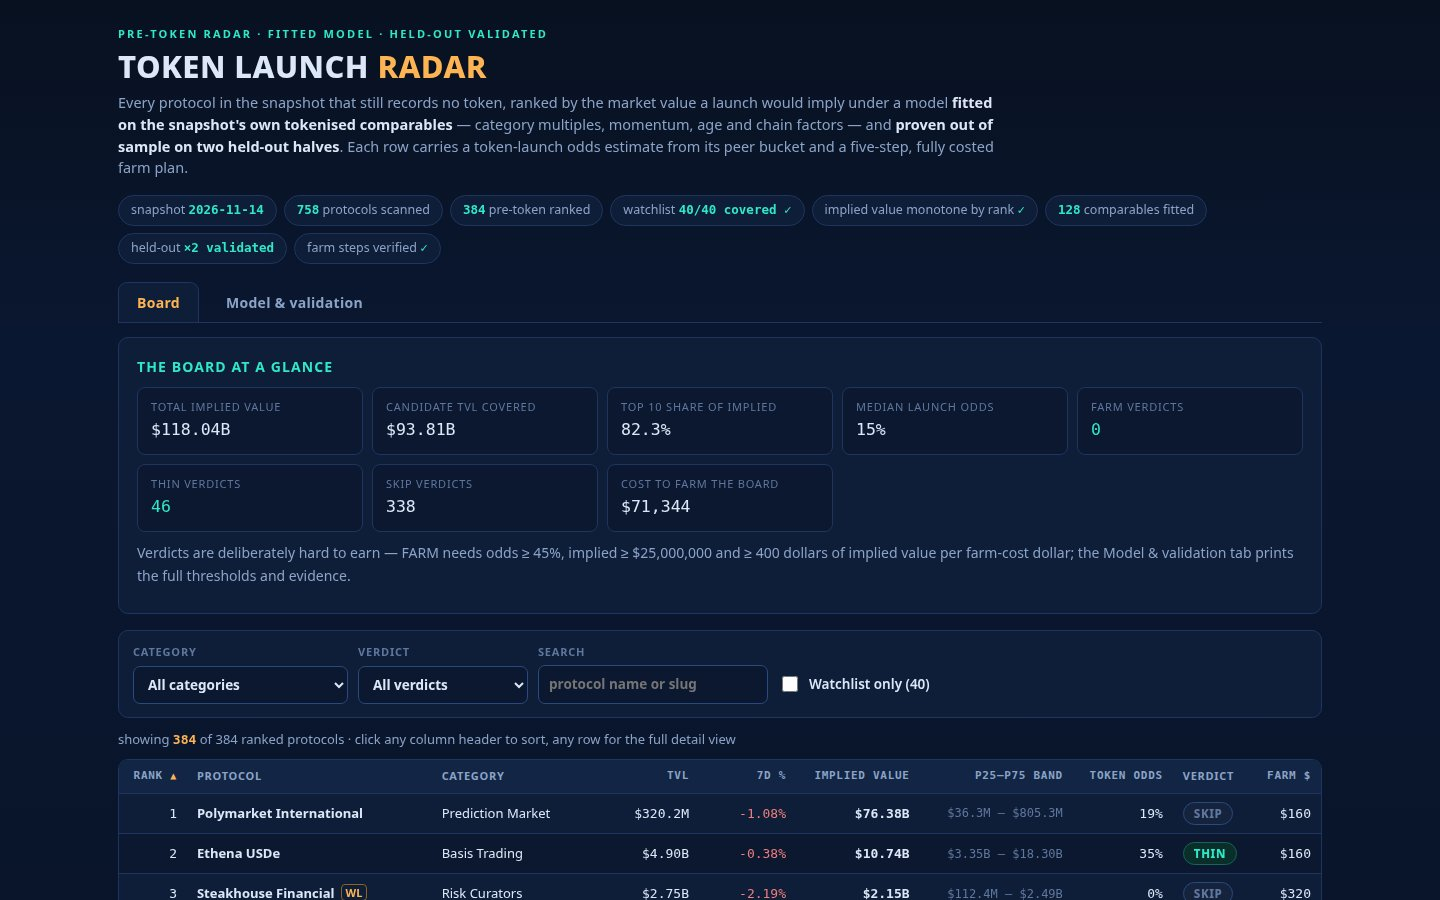
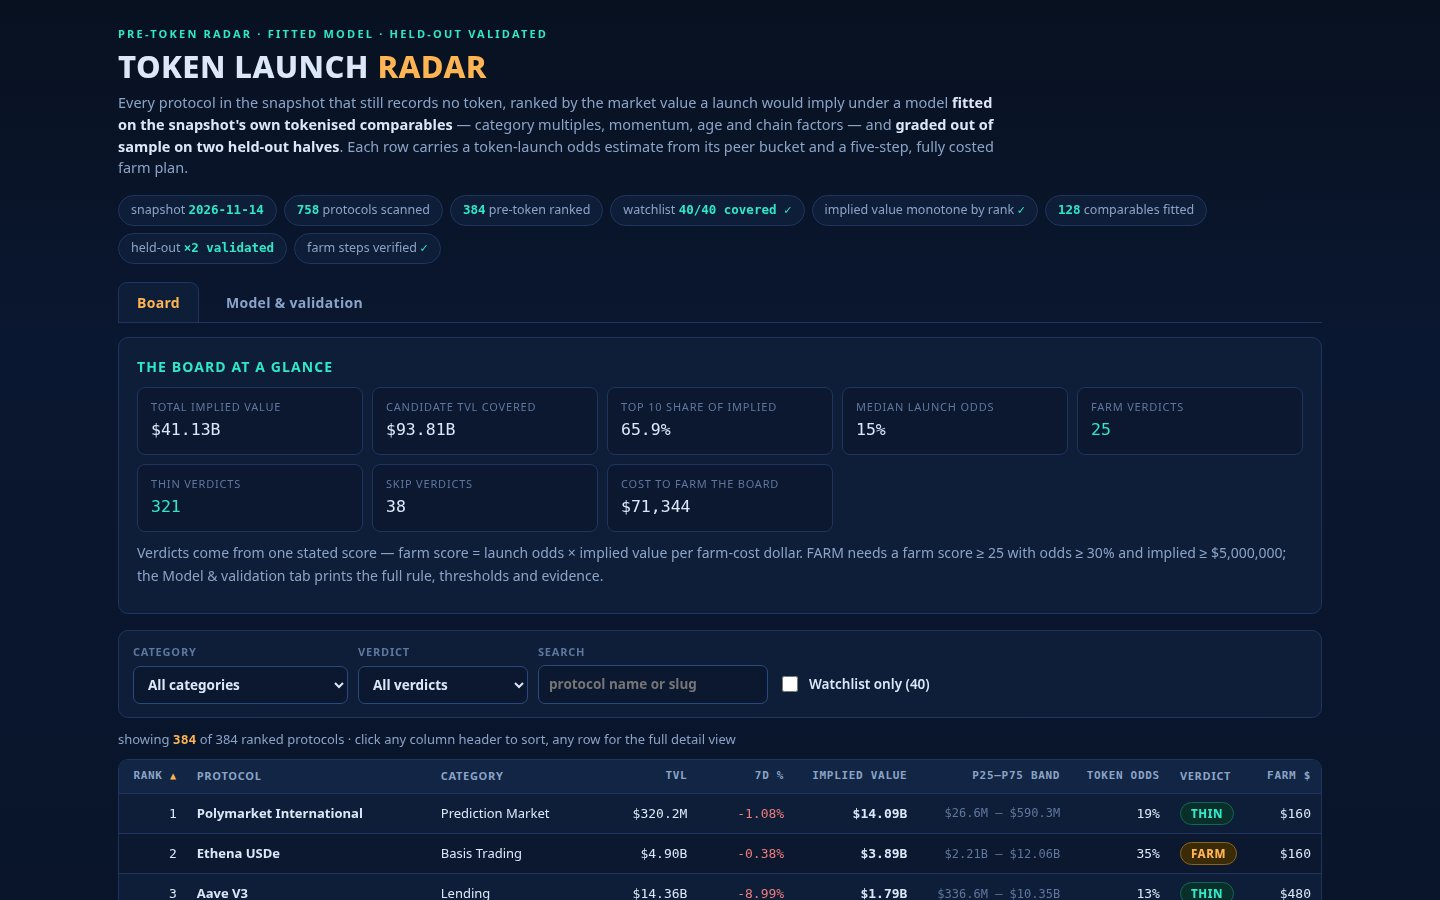
Radar v2: validation-tuned shrinkage, farm-score verdicts

diff --git a/dashboard/app.js b/dashboard/app.js
@@ -92,7 +92,7 @@
     h += '<p class="tagline">Every protocol in the snapshot that still records no token, '
       + 'ranked by the market value a launch would imply under a model <strong>fitted on the '
       + 'snapshot\'s own tokenised comparables</strong> — category multiples, momentum, age and '
-      + 'chain factors — and <strong>proven out of sample on two held-out halves</strong>. '
+      + 'chain factors — and <strong>graded out of sample on two held-out halves</strong>. '
       + 'Each row carries a token-launch odds estimate from its peer bucket and a five-step, '
       + 'fully costed farm plan.</p>';
     h += '<div class="strip">';
@@ -175,10 +175,11 @@
     h += '<div class="cell"><div class="k">THIN verdicts</div><div class="v"><em>' + counts.THIN + '</em></div></div>';
     h += '<div class="cell"><div class="k">SKIP verdicts</div><div class="v">' + counts.SKIP + '</div></div>';
     h += '<div class="cell"><div class="k">Cost to farm the board</div><div class="v">' + moneyFull(totalFarm) + '</div></div>';
-    h += '</div><p class="muted">Verdicts are deliberately hard to earn — FARM needs odds ≥ '
-      + MODEL.verdict_thresholds.farm_min_odds_pct + '%, implied ≥ ' + moneyFull(MODEL.verdict_thresholds.farm_min_implied_usd)
-      + ' and ≥ ' + MODEL.verdict_thresholds.farm_min_value_per_cost
-      + ' dollars of implied value per farm-cost dollar; the Model &amp; validation tab prints the full thresholds and evidence.</p></div>';
+    h += '</div><p class="muted">Verdicts come from one stated score — farm score = launch odds × implied '
+      + 'value per farm-cost dollar. FARM needs a farm score ≥ ' + MODEL.verdict_thresholds.farm_min_score
+      + ' with odds ≥ ' + MODEL.verdict_thresholds.farm_min_odds_pct + '% and implied ≥ '
+      + moneyFull(MODEL.verdict_thresholds.farm_min_implied_usd)
+      + '; the Model &amp; validation tab prints the full rule, thresholds and evidence.</p></div>';
     return h;
   }
 
@@ -237,9 +238,10 @@
       + 'category\'s comparables actually trade across, is the honest precision of the estimate.</p>'
       + '<p><strong>Token odds</strong> answer a different question: among the protocols most similar to this '
       + 'one — same category, similar TVL, similar token-free age — how many already record a token? High odds '
-      + 'with a small implied value means a launch is likely but small; the verdict joins the two: '
-      + '<strong>FARM</strong> only when both are large and the plan is cheap relative to the prize, '
-      + '<strong>THIN</strong> when the case is real but one leg is weak, <strong>SKIP</strong> when farming '
+      + 'with a small implied value means a launch is likely but small; the verdict joins the two into one '
+      + '<strong>farm score</strong> — odds × implied value ÷ farm cost: '
+      + '<strong>FARM</strong> when that score is high and both legs clear their floors, '
+      + '<strong>THIN</strong> when the score is real but smaller, <strong>SKIP</strong> when farming '
       + 'would cost more attention than the expected launch can repay.</p>'
       + '<p><strong>Farm $</strong> is the all-in fee and gas cost of the five-step plan on the detail view — '
       + 'not the working capital the plan moves, which the steps themselves state. Every plan is written for '
@@ -291,8 +293,10 @@
       + ' <span class="op">×</span> <span class="lab">chains</span> ' + factor(r.chain_factor)
       + ' <span class="op">=</span> <span class="res">' + moneyFull(r.implied_value_usd) + '</span></div>';
     h += '<p class="muted">The category multiple is the fitted median market-cap / TVL of tokenised '
-      + esc(r.category || 'comparable') + ' protocols; each factor is its bucket\'s median multiple '
-      + 'relative to the global median, clamped to [0.50, 2.00]. The full fitted tables are on the Model &amp; validation tab.</p>';
+      + esc(r.category || 'comparable') + ' protocols, shrunk toward the global median; each factor is its '
+      + 'bucket\'s median multiple relative to the global median, shrunk toward 1 by bucket size and '
+      + 'clamped to [0.50, 2.00]. This protocol\'s farm score is <strong>' + metric(r.farm_score, 1) + '</strong> '
+      + '(odds × implied ÷ farm cost). The full fitted tables are on the Model &amp; validation tab.</p>';
     h += bandBarHtml(r);
 
     h += '<h3>Token-launch odds: ' + r.odds_pct + '%</h3>';
@@ -328,6 +332,22 @@
     return h;
   }
 
+  function heldOutVerdict() {
+    var parts = MODEL.held_out.map(function (s) {
+      var f = s.full_model, b = s.baseline_tvl_only;
+      var mae = f.median_abs_log10_err <= b.median_abs_log10_err
+        ? 'the full model\'s median error (' + metric(f.median_abs_log10_err) + ') beats the baseline\'s (' + metric(b.median_abs_log10_err) + ')'
+        : 'the baseline\'s median error (' + metric(b.median_abs_log10_err) + ') is lower than the full model\'s (' + metric(f.median_abs_log10_err) + ')';
+      var w2 = f.pct_within_2x >= b.pct_within_2x
+        ? 'the full model puts more protocols within 2× of their actual market cap (' + metric(f.pct_within_2x, 1) + '% vs ' + metric(b.pct_within_2x, 1) + '%)'
+        : 'the baseline puts more protocols within 2× (' + metric(b.pct_within_2x, 1) + '% vs ' + metric(f.pct_within_2x, 1) + '%)';
+      return 'fit ' + s.train_half + ' → test ' + s.test_half + ': ' + mae + ', while ' + w2;
+    });
+    return '<strong>Read honestly:</strong> on ' + parts.join('; on ') + '. The shrinkage printed above was '
+      + 'chosen to close the median-error gap across both splits without giving up the within-2× edge — '
+      + 'no stronger claim is made than these numbers support.';
+  }
+
   function heldOutHtml() {
     var h = '<h3>Held-out validation ×2 — the model, graded on protocols it never fitted</h3>';
     h += '<p>The ' + MODEL.comparables_used + ' comparables are split into two halves by a stable hash of each '
@@ -357,6 +377,7 @@
         + '<td class="num">' + metric(b.r2_log10) + '</td></tr>';
     });
     h += '</tbody></table>';
+    h += '<p>' + heldOutVerdict() + '</p>';
     h += '<p class="muted">Green marks the better score on that metric and split, red the worse. Market-cap / TVL '
       + 'ratios are heavy-tailed — the snapshot\'s own interquartile range runs from ' + mult(MODEL.global_p25)
       + ' to ' + mult(MODEL.global_p75) + ' — so even a correct median model lands within 2× only part of the time; '
@@ -371,12 +392,15 @@
     h += '<p>Comparables are the ' + MODEL.comparables_used + ' protocols that already record a token with both a '
       + 'market cap and TVL. Their market-cap / TVL ratios give a <strong>global median of ' + mult(MODEL.global_median)
       + '</strong> (P25 ' + mult(MODEL.global_p25) + ', P75 ' + mult(MODEL.global_p75) + '; medians use the '
-      + esc(MODEL.median_convention) + '). Each category\'s multiple is its own median when at least 3 comparables '
-      + 'support it; thinner categories shrink toward the global median with a prior weight of '
-      + MODEL.category_prior_weight + '. Three bucket factors — 7-day TVL momentum, token-free age, chain count — '
-      + 'are each fitted as the bucket\'s median ratio divided by the global median, clamped to ['
+      + esc(MODEL.median_convention) + '). Each category\'s multiple is its own median shrunk toward the global '
+      + 'median with a prior weight (pseudo-count) of ' + MODEL.category_prior_weight + ' — every category is '
+      + 'shrunk, thin ones most, so a handful of comparables cannot drag a price on their own. Three bucket '
+      + 'factors — 7-day TVL momentum, token-free age, chain count — are each fitted as the bucket\'s median '
+      + 'ratio divided by the global median, then shrunk toward 1 by bucket size: factor = 1 + (raw − 1) × '
+      + 'n/(n + ' + MODEL.factor_shrinkage_k + '), and only then clamped to ['
       + MODEL.factor_clamp[0].toFixed(2) + ', ' + MODEL.factor_clamp[1].toFixed(2) + ']. A bucket the data cannot '
       + 'support (an unreported momentum or age with fewer than 5 comparables) gets the neutral factor 1.000. '
+      + 'The shrinkage strength was selected by held-out validation across both splits. '
       + 'Nothing is hardcoded per protocol: change the snapshot and every number on this page moves.</p>';
 
     h += '<h3>Fitted category multiples</h3>';
@@ -414,13 +438,15 @@
     h += '<p>' + esc(MODEL.odds_method.note) + '. The four levels, finest first: '
       + MODEL.odds_method.levels.map(esc).join(' → ') + '. Odds describe how often comparable peers already '
       + 'record a token; they are a base rate, not a promise about any single protocol.</p>';
-    h += '<h3>Verdict thresholds</h3>';
+    h += '<h3>Verdict rule — one score</h3>';
     var t = MODEL.verdict_thresholds;
+    h += '<p>Every verdict comes from a single stated score: <strong>farm score = launch odds (as a fraction) '
+      + '× implied value ÷ farm cost</strong> — the expected prize per dollar the plan spends.</p>';
     h += '<ul>'
-      + '<li><strong>FARM</strong> — odds ≥ ' + t.farm_min_odds_pct + '%, implied value ≥ ' + moneyFull(t.farm_min_implied_usd)
-      + ', and implied value per farm-cost dollar ≥ ' + t.farm_min_value_per_cost + '.</li>'
-      + '<li><strong>THIN</strong> — odds ≥ ' + t.thin_min_odds_pct + '% and implied value ≥ ' + moneyFull(t.thin_min_implied_usd)
-      + ', but short of the FARM bar: a small position, sized down.</li>'
+      + '<li><strong>FARM</strong> — farm score ≥ ' + t.farm_min_score + ', odds ≥ ' + t.farm_min_odds_pct
+      + '% and implied value ≥ ' + moneyFull(t.farm_min_implied_usd) + '.</li>'
+      + '<li><strong>THIN</strong> — farm score ≥ ' + t.thin_min_score + ' and implied value ≥ '
+      + moneyFull(t.thin_min_implied_usd) + ', but short of the FARM bar: a small position, sized down.</li>'
       + '<li><strong>SKIP</strong> — everything else: the expected launch does not pay for the farming effort today.</li></ul>';
     h += '<h3>Integrity checklist — recomputed on every run</h3>';
     h += '<ul class="checklist">'

diff --git a/lib/model.ts b/lib/model.ts
@@ -10,11 +10,13 @@
 //
 // where the category multiple is the median market-cap / TVL ratio of the
 // tokenised comparables in that category (shrunk toward the global median
-// when a category is thin) and each factor is the ratio of a bucket's median
-// multiple to the global median, clamped to [0.5, 2.0]. The fit is proven
-// out of sample: parameters are fitted on one slug-hash half of the
-// comparables and scored on the other half, then the halves swap, and a
-// TVL-only baseline is scored the same way so the lift is measurable.
+// with a pseudo-count prior) and each factor is the ratio of a bucket's
+// median multiple to the global median, shrunk toward 1 by bucket size and
+// clamped to [0.5, 2.0]. The shrinkage strengths were selected by held-out
+// validation across both splits. The fit is graded out of sample:
+// parameters are fitted on one slug-hash half of the comparables and scored
+// on the other half, then the halves swap, and a TVL-only baseline is
+// scored the same way so the comparison is measurable.
 
 export interface Protocol {
   slug: string;
@@ -41,17 +43,18 @@ export interface Snapshot {
 
 export const FACTOR_MIN = 0.5;
 export const FACTOR_MAX = 2.0;
-export const CATEGORY_PRIOR_WEIGHT = 3;
+export const CATEGORY_PRIOR_WEIGHT = 15;
+export const FACTOR_SHRINKAGE_K = 20;
 export const MIN_CATEGORY_N = 3;
 export const MIN_UNKNOWN_BUCKET_N = 5;
 export const ODDS_MIN_BUCKET_N = 8;
 export const ODDS_PRIOR_WEIGHT = 4;
 export const VERDICT = {
-  farm_min_odds_pct: 45,
-  farm_min_implied_usd: 25000000,
-  farm_min_value_per_cost: 400,
-  thin_min_odds_pct: 25,
-  thin_min_implied_usd: 8000000,
+  farm_min_score: 25,
+  farm_min_odds_pct: 30,
+  farm_min_implied_usd: 5000000,
+  thin_min_score: 6,
+  thin_min_implied_usd: 2000000,
 };
 
 const EXCLUDED_CATEGORIES = new Set([
@@ -210,7 +213,9 @@ function fitBucketFactors(
     let factor = 1;
     const isUnknown = key === 'unknown';
     if (!isUnknown || !unknownNeedsN || ratios.length >= MIN_UNKNOWN_BUCKET_N) {
-      factor = clamp(medianOf(ratios) / globalMedian, FACTOR_MIN, FACTOR_MAX);
+      const rawFactor = medianOf(ratios) / globalMedian;
+      const shrunk = 1 + (rawFactor - 1) * ratios.length / (ratios.length + FACTOR_SHRINKAGE_K);
+      factor = clamp(shrunk, FACTOR_MIN, FACTOR_MAX);
     }
     rows.push({ bucket: key, n: ratios.length, factor: r6(factor) });
   }
@@ -233,9 +238,7 @@ export function fitModel(comps: Protocol[], asOf: string): Fit {
   for (const cat of [...byCategory.keys()].sort()) {
     const rs = byCategory.get(cat)!;
     const raw = medianOf(rs);
-    const median = rs.length >= MIN_CATEGORY_N
-      ? raw
-      : (rs.length * raw + CATEGORY_PRIOR_WEIGHT * globalMedian) / (rs.length + CATEGORY_PRIOR_WEIGHT);
+    const median = (rs.length * raw + CATEGORY_PRIOR_WEIGHT * globalMedian) / (rs.length + CATEGORY_PRIOR_WEIGHT);
     categories.push({
       category: cat,
       n: rs.length,
@@ -360,7 +363,7 @@ export interface AblationRow {
 function ablationLadder(comps: Protocol[], fit: Fit, asOf: string): AblationRow[] {
   const labels = [
     ['A0', 'global median multiple only'],
-    ['A1', '+ category medians (shrunk when thin)'],
+    ['A1', '+ category medians (shrunk toward global)'],
     ['A2', '+ momentum bucket factor'],
     ['A3', '+ age bucket factor'],
     ['A4', 'full model (+ chain-count factor)'],
@@ -539,6 +542,7 @@ export interface BoardRow {
   band_low_usd: number;
   band_high_usd: number;
   verdict: string;
+  farm_score: number;
   farm_cost_usd: number;
   chains: string[];
   listed_at: string | null;
@@ -582,16 +586,17 @@ export function buildBoard(snapshot: Snapshot): BoardResult {
     const odds = launchOdds(p, all, asOf);
     const plan = farmPlan(p);
     const farmCost = plan.reduce((s, x) => s + x.cost_usd, 0);
+    const farmScore = (odds.odds_pct / 100) * implied / farmCost;
     let verdict = 'SKIP';
-    let reason = 'Below the THIN bar on odds, implied value, or both — capital earns more elsewhere on this board.';
-    if (odds.odds_pct >= VERDICT.farm_min_odds_pct
-      && implied >= VERDICT.farm_min_implied_usd
-      && implied / farmCost >= VERDICT.farm_min_value_per_cost) {
+    let reason = `Farm score ${farmScore.toFixed(1)} (odds ${odds.odds_pct}% x $${implied.toLocaleString('en-US')} implied / $${farmCost} cost) is below the THIN bar — capital earns more elsewhere on this board.`;
+    if (farmScore >= VERDICT.farm_min_score
+      && odds.odds_pct >= VERDICT.farm_min_odds_pct
+      && implied >= VERDICT.farm_min_implied_usd) {
       verdict = 'FARM';
-      reason = `Launch odds ${odds.odds_pct}% and $${implied.toLocaleString('en-US')} implied clear the FARM bar, at $${farmCost} of total farm cost.`;
-    } else if (odds.odds_pct >= VERDICT.thin_min_odds_pct && implied >= VERDICT.thin_min_implied_usd) {
+      reason = `Farm score ${farmScore.toFixed(1)} clears the FARM bar of ${VERDICT.farm_min_score}: odds ${odds.odds_pct}% on $${implied.toLocaleString('en-US')} implied against only $${farmCost} of total farm cost.`;
+    } else if (farmScore >= VERDICT.thin_min_score && implied >= VERDICT.thin_min_implied_usd) {
       verdict = 'THIN';
-      reason = `Clears the THIN bar (odds ${odds.odds_pct}%, implied $${implied.toLocaleString('en-US')}) but not FARM — a small position only.`;
+      reason = `Farm score ${farmScore.toFixed(1)} clears the THIN bar of ${VERDICT.thin_min_score} (odds ${odds.odds_pct}%, implied $${implied.toLocaleString('en-US')}, cost $${farmCost}) but not FARM — a small position only.`;
     }
     const age = ageYears(p, asOf);
     return {
@@ -607,6 +612,7 @@ export function buildBoard(snapshot: Snapshot): BoardResult {
       band_low_usd: bandLow,
       band_high_usd: bandHigh,
       verdict,
+      farm_score: r4(farmScore),
       farm_cost_usd: farmCost,
       chains: p.chains || [],
       listed_at: p.listed_at,
@@ -654,6 +660,8 @@ export function buildBoard(snapshot: Snapshot): BoardResult {
     median_convention: 'upper middle element of the sorted ratios (index floor(n/2))',
     factor_clamp: [FACTOR_MIN, FACTOR_MAX],
     category_prior_weight: CATEGORY_PRIOR_WEIGHT,
+    factor_shrinkage_k: FACTOR_SHRINKAGE_K,
+    shrinkage_selection: 'category pseudo-count and factor shrinkage k were selected by held-out validation across both slug-hash splits',
     categories: fit.categories,
     momentum_factors: fit.momentum,
     age_factors: fit.age,

diff --git a/main.ts b/main.ts
@@ -74,6 +74,7 @@ function run(): void {
     band_low_usd: r.band_low_usd,
     band_high_usd: r.band_high_usd,
     verdict: r.verdict,
+    farm_score: r.farm_score,
     farm_cost_usd: r.farm_cost_usd,
   }));
   writeFileSync(join(opts.output, 'board.json'), JSON.stringify({ rows: boardRows }) + '\n');

diff --git a/README.md b/README.md
@@ -8,11 +8,11 @@ Token Launch Radar v2 scans all 758 protocols in the sealed snapshot and ranks e
 
 ## What the v2 model does
 
-- **Fitted category multiples.** Each category is priced at the median market-cap/TVL of its tokenised comparables; categories with fewer than 3 comparables shrink toward the global median (prior weight 3) instead of trusting a thin sample. Every value carries a P25–P75 band from the same category.
-- **Fitted bucket factors.** Momentum (7-day TVL change), token-free age, and chain count each contribute a factor equal to their bucket's median multiple divided by the global median, clamped to [0.5, 2.0]. Unsupported buckets fall back to the neutral factor 1.
+- **Fitted category multiples.** Each category is priced at the median market-cap/TVL of its tokenised comparables, shrunk toward the global median with a prior weight (pseudo-count) of 15 — every category is shrunk, thin ones most, instead of trusting a thin sample. Every value carries a P25–P75 band from the same category.
+- **Fitted bucket factors.** Momentum (7-day TVL change), token-free age, and chain count each contribute a factor equal to their bucket's median multiple divided by the global median, shrunk toward 1 by bucket size (factor = 1 + (raw − 1) × n/(n + 20)) and clamped to [0.5, 2.0]. Unsupported buckets fall back to the neutral factor 1. The shrinkage strength was selected by held-out validation across both splits.
 - **Held-out validation ×2.** The comparables are split into halves by a stable slug hash; all parameters are fitted on one half and scored on the other (median |log10 error|, bias, % within 2×, R² on log10 scale), then the halves swap. A TVL-only baseline is scored the same way, and an in-sample ablation ladder (A0–A4) shows what each model component explains. The dashboard's Model & validation tab prints all of it.
 - **Token-launch odds.** For each candidate, the share of peer protocols that already record a token — peers bucketed by category × TVL band × age band, backing off to coarser buckets when a bucket holds fewer than 8 peers, shrunk toward the coarser rate with a prior weight of 4.
-- **Verdicts and costed farm plans.** FARM / THIN / SKIP verdicts from printed thresholds (odds, implied value, and implied value per farm-cost dollar), and exactly five farm steps per protocol — category-aware, sized to the protocol's TVL, each naming a concrete action, a USD cost, and a duration.
+- **Verdicts and costed farm plans.** FARM / THIN / SKIP verdicts from one stated score — farm score = launch odds × implied value ÷ farm cost (FARM at score ≥ 25 with odds ≥ 30% and implied ≥ $5M; THIN at score ≥ 6 with implied ≥ $2M) — and exactly five farm steps per protocol — category-aware, sized to the protocol's TVL, each naming a concrete action, a USD cost, and a duration.
 - **Integrity strip.** The dashboard header recomputes and displays the run's own checks: snapshot date, protocols scanned, candidates ranked, watchlist covered 40/40, monotone-by-rank verified, comparables fitted, held-out ×2 validated. The program throws rather than emit a board that fails them.
 
 The model is deterministic — no clock, no randomness — so two runs over the same snapshot write byte-identical output.
